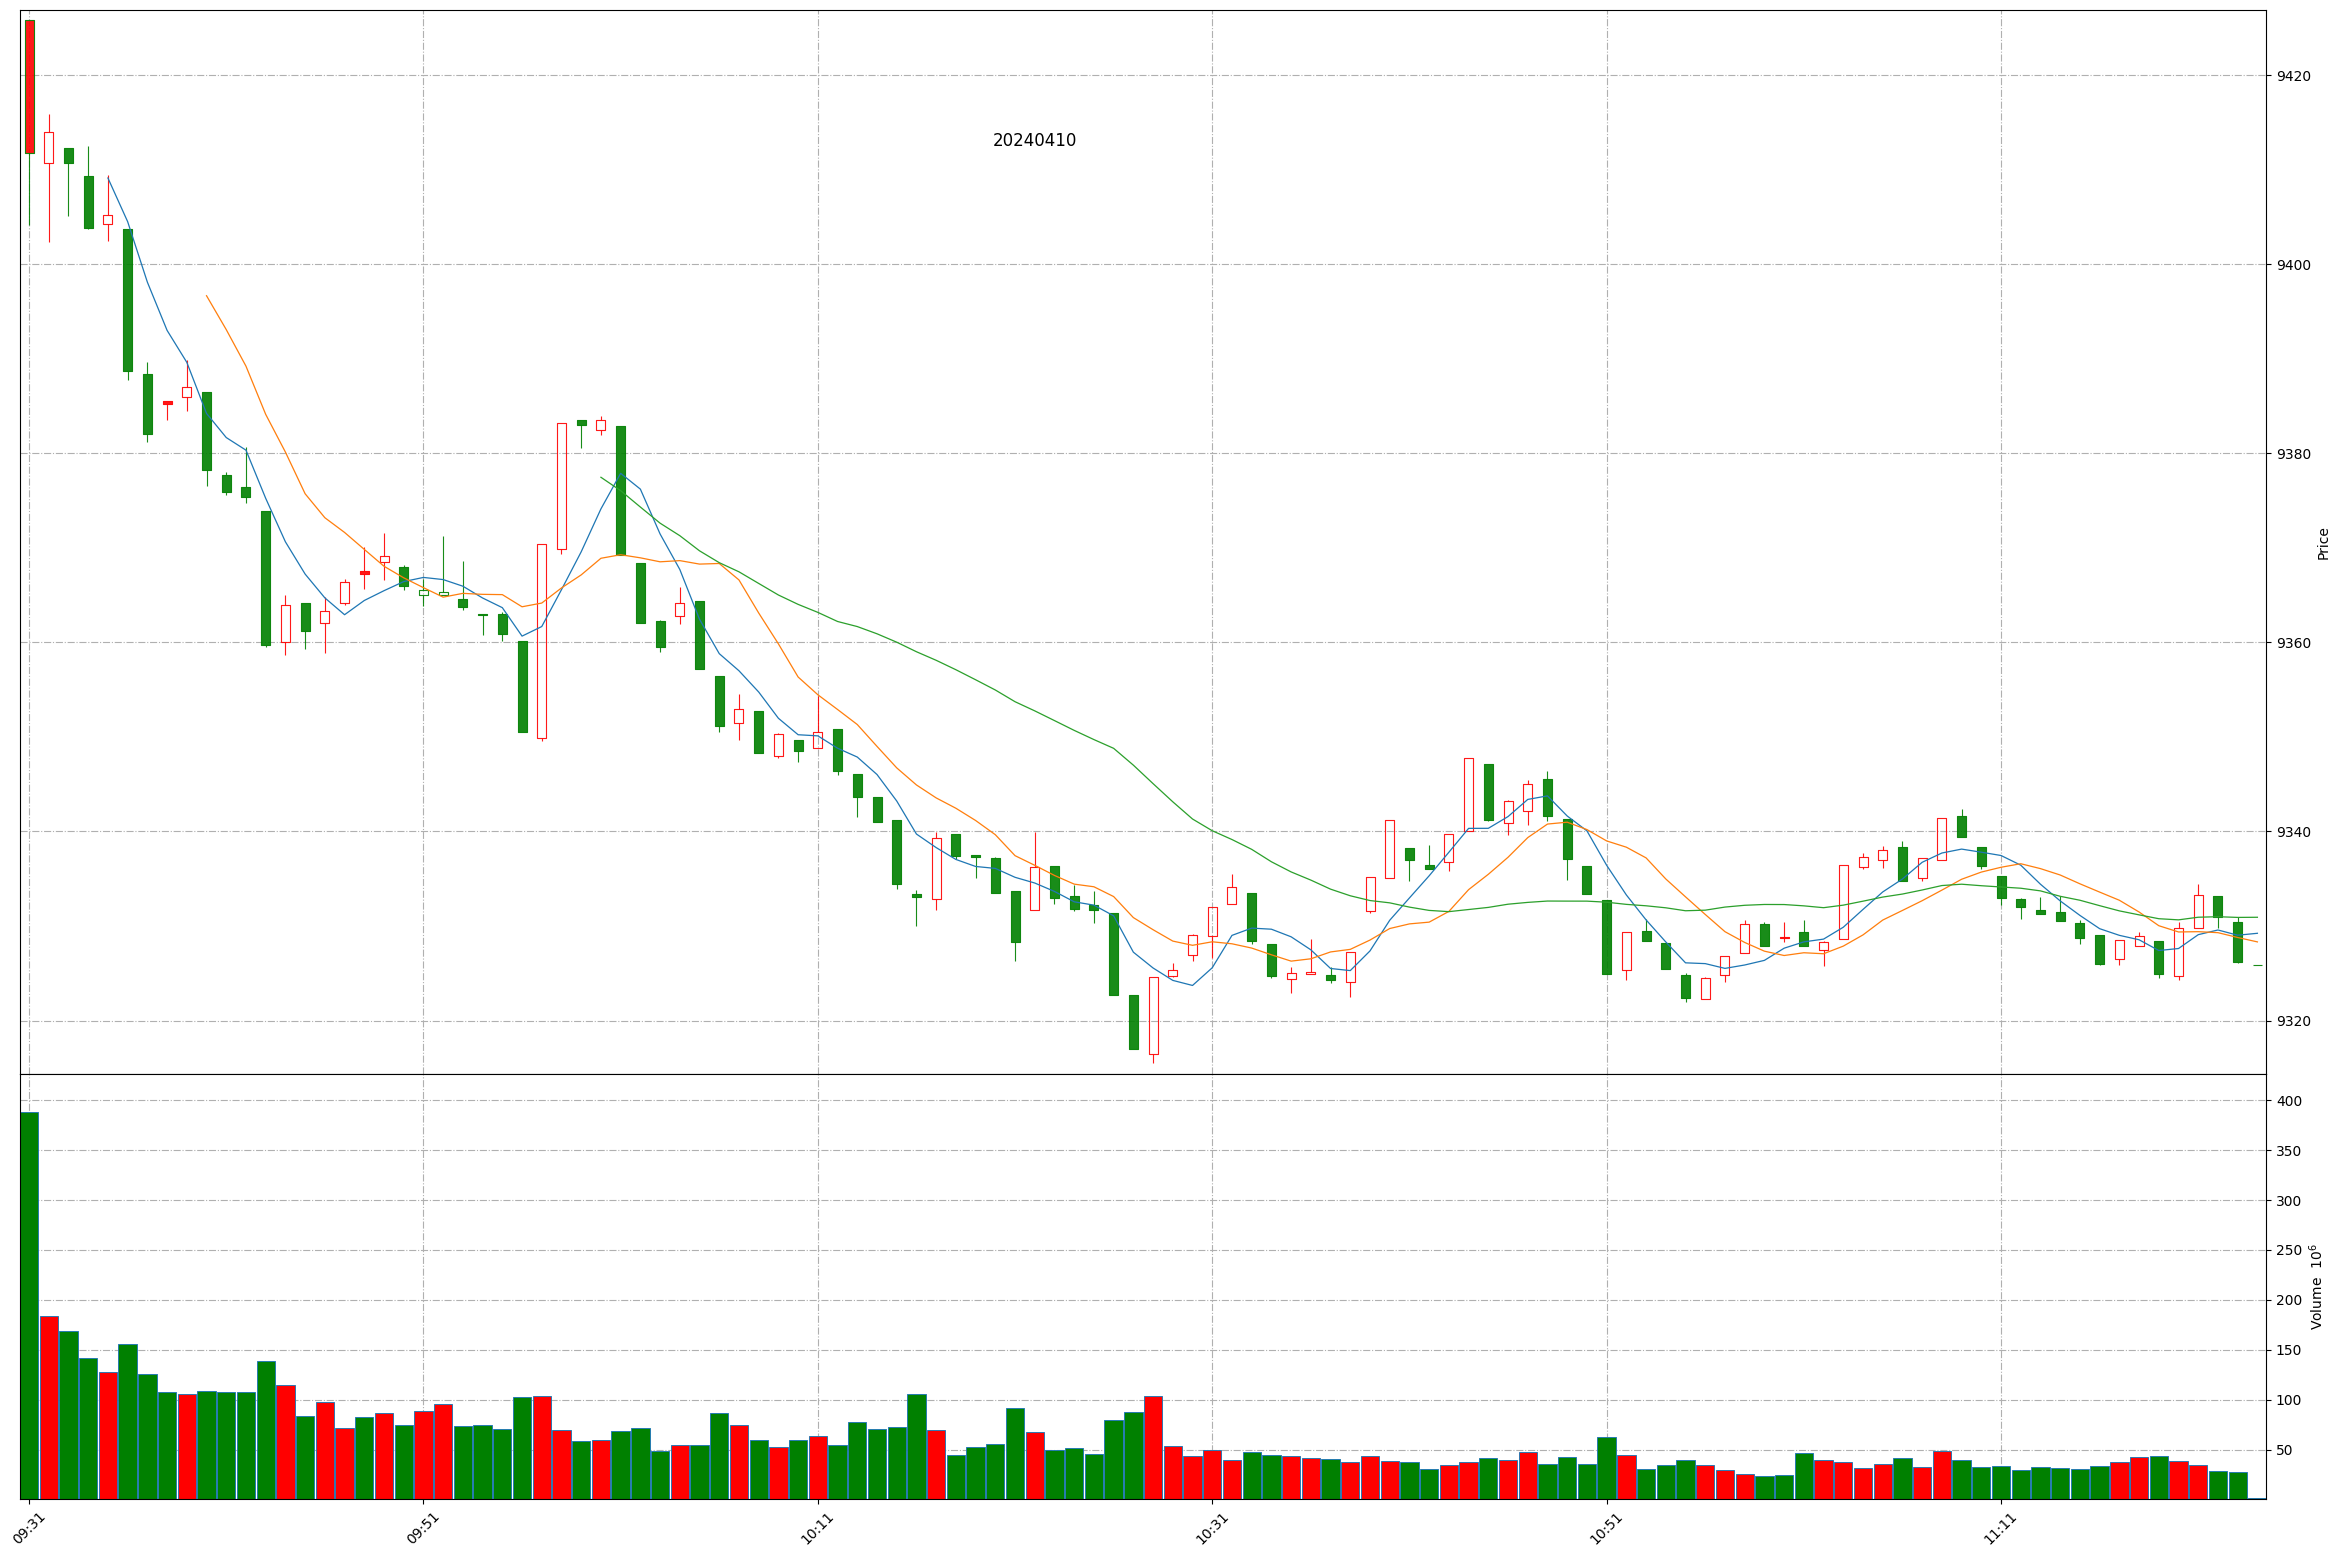
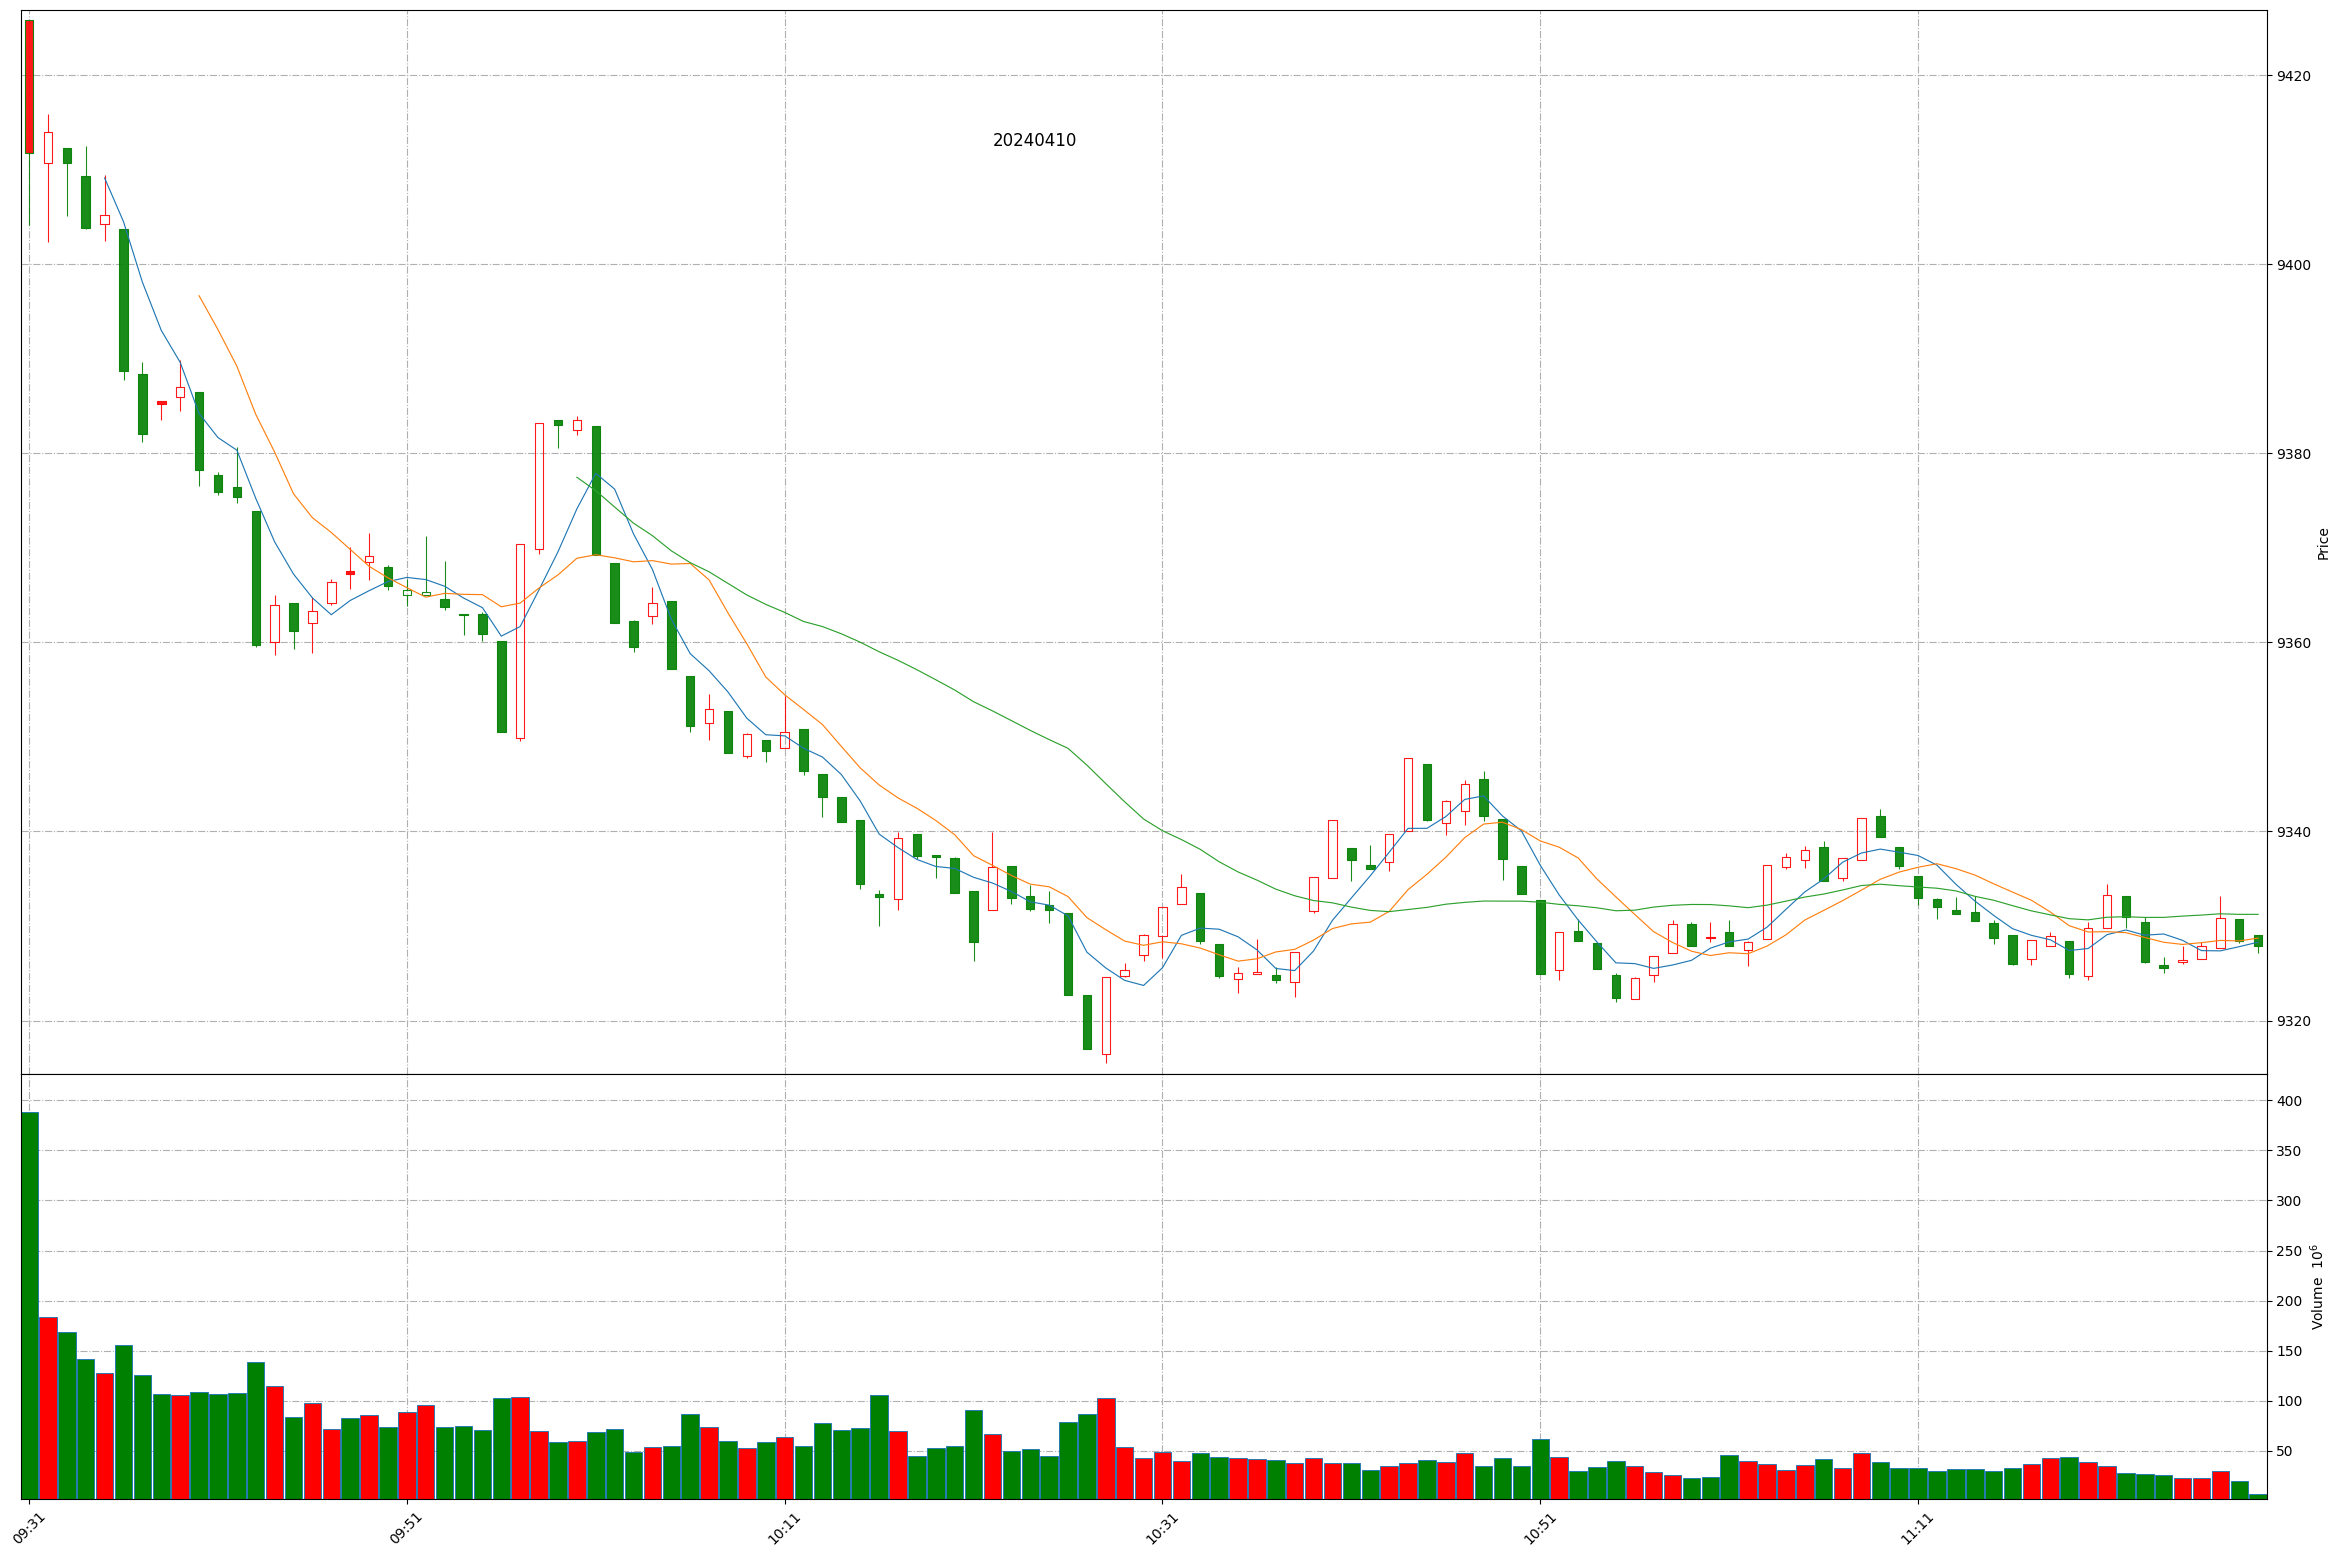
Github action update at 2024-04-10 11:28:32.

Changed region(s): [[0.0624, 0.2466, 0.9671, 0.6782], [0.0312, 0.8632, 0.9671, 0.9865], [0.0312, 0.1233, 0.0624, 0.2466]]

diff --git a/README.md b/README.md
@@ -1,11 +1,11 @@
 
 # Daily-A-share-market-quotes 每日 A 股指数（5min 更新）- 20240410
 
-### 上证指数 20240410 11:23
+### 上证指数 20240410 11:28
 ![](./fig/2024/4/20240410-sh000001.png)
 
-### 深证成指 20240410 11:23
+### 深证成指 20240410 11:28
 ![](./fig/2024/4/20240410-sz399001.png)
 
-### 北证50 20240410 11:23
+### 北证50 20240410 11:28
 ![](./fig/2024/4/20240410-bj899050.png)
